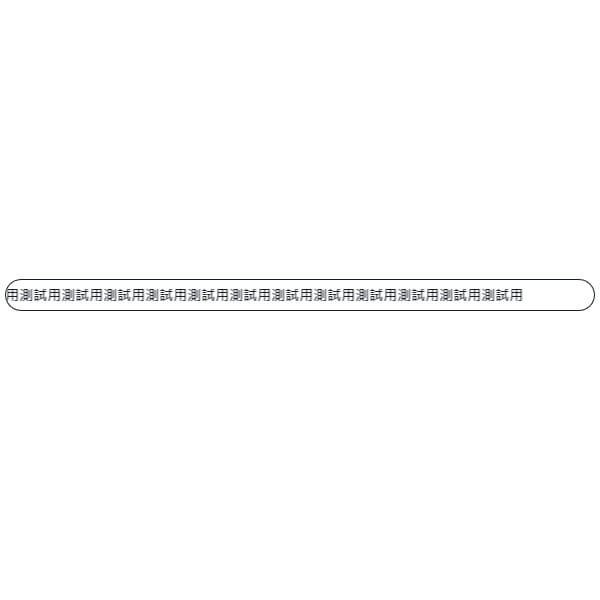
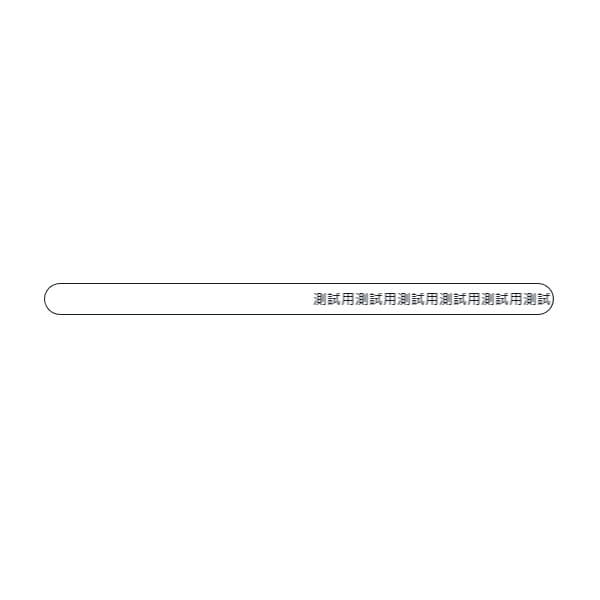
111-0727-4

Changed region(s): [[0.0, 0.45, 0.93, 0.54], [0.99, 0.48, 1.0, 0.51], [0.96, 0.45, 0.99, 0.48]]

diff --git a/css/style.css b/css/style.css
@@ -301,7 +301,7 @@ html body article .title p {
   font-weight: bold;
 }
 html body article .content {
-  width: 680px;
+  width: 500px;
   height: auto;
   -ms-flex-negative: 0;
       flex-shrink: 0;
@@ -426,7 +426,7 @@ html body article .content .demoBox ul {
   padding-left: 32px;
 }
 html body article .content .demoBox ul ol {
-  width: 300px;
+  width: 200px;
   height: auto;
   margin-right: 10px;
 }
@@ -558,15 +558,20 @@ html body article .demo .demoPlace {
   width: 100%;
   height: 100%;
   background: #ffffff;
-  padding: 16px;
+  padding: 30px;
 }
 html body article .demo .demoPlace .marqueeBox {
   width: 100%;
   height: 100%;
   display: none;
+  -webkit-box-pack: center;
+      -ms-flex-pack: center;
+          justify-content: center;
 }
 html body article .demo .demoPlace .marqueeBox.display {
-  display: block;
+  display: -webkit-box;
+  display: -ms-flexbox;
+  display: flex;
 }
 html body article .demo .demoPlace .marqueeBox .marquee_row {
   width: 100%;

diff --git a/scss/_home.scss b/scss/_home.scss
@@ -19,7 +19,7 @@ article {
     }
 
     .content {
-        width: 680px;
+        width: 500px;
         height: auto;
         flex-shrink: 0;
 
@@ -141,7 +141,7 @@ article {
                 padding-left: 32px;
 
                 ol {
-                    width: 300px;
+                    width: 200px;
                     height: auto;
                     margin-right: 10px;
 
@@ -230,15 +230,16 @@ article {
             width: 100%;
             height: 100%;
             background: $demo_BG;
-            padding: 16px;
+            padding: 30px;
 
             .marqueeBox {
                 width: 100%;
                 height: 100%;
                 display: none;
+                justify-content: center;
 
                 &.display {
-                    display: block;
+                    display: flex;
                 }
 
                 //跑馬燈橫
